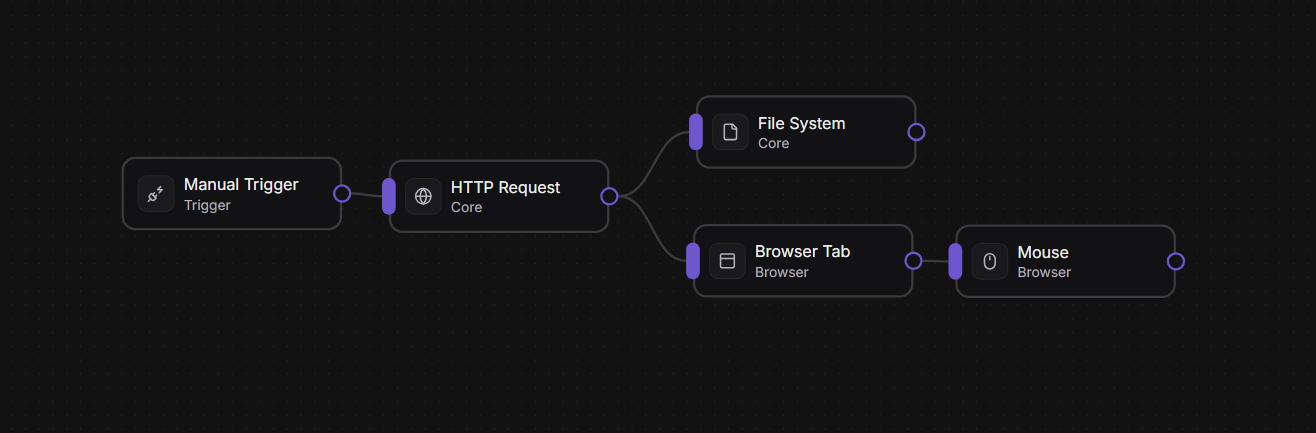
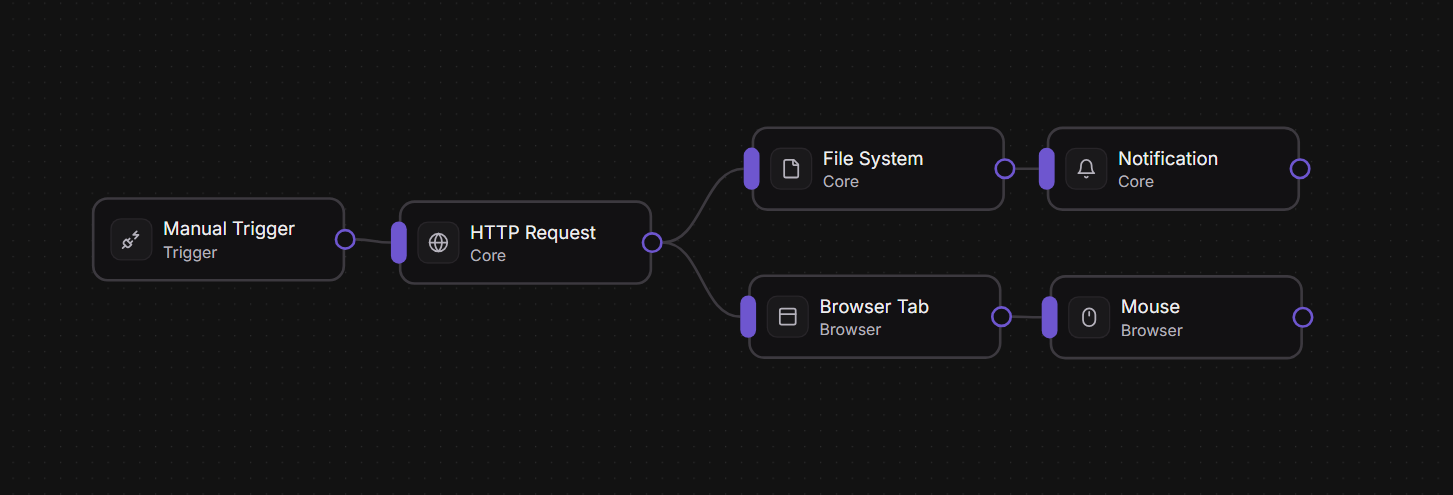
feat(docs): add Branch Execution Order page

diff --git a/apps/docs/src/content/docs/workflows/branch-execution-order.md b/apps/docs/src/content/docs/workflows/branch-execution-order.md
@@ -1,0 +1,11 @@
+---
+title: Branch Execution Order
+sidebar:
+  order: 3
+---
+
+When you have a branching node inside your workflow, the execution order will start from the node where the position is the top to the bottom. See the below image for an example,
+
+![Branching nodes](@/assets/images/workflow-branching-node.png)
+
+In this case, when the HTTP Request node execution is finished, the workflow will execute the File System node and then continue to the Notification node first. Then continues execution to the next branch, which is the Browser Tab node and the Mouse node.
